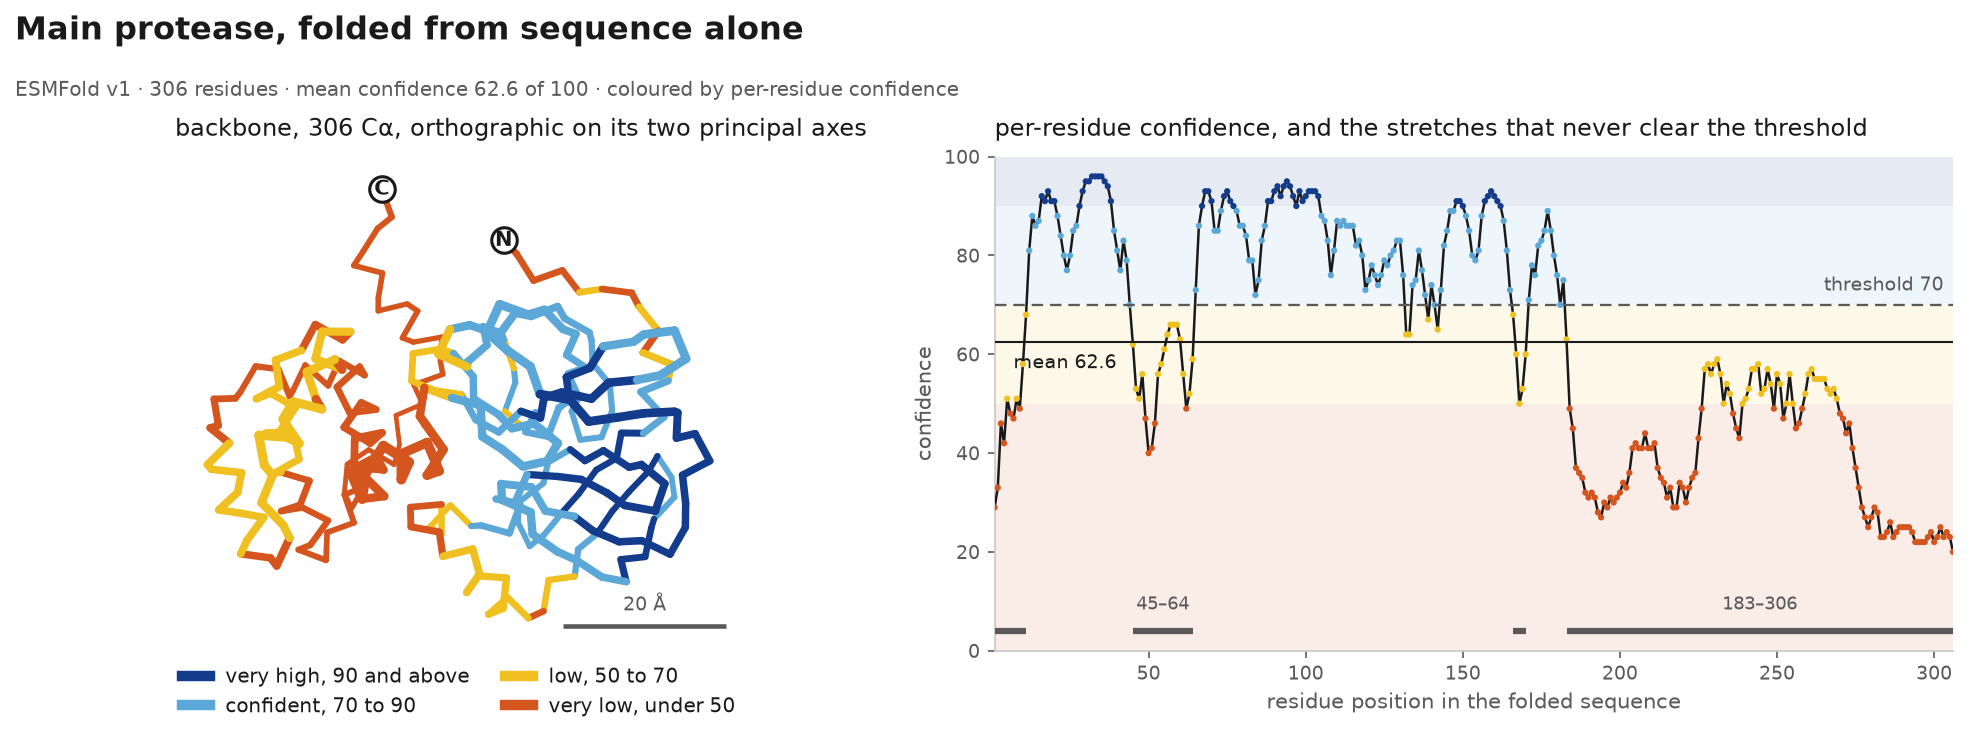
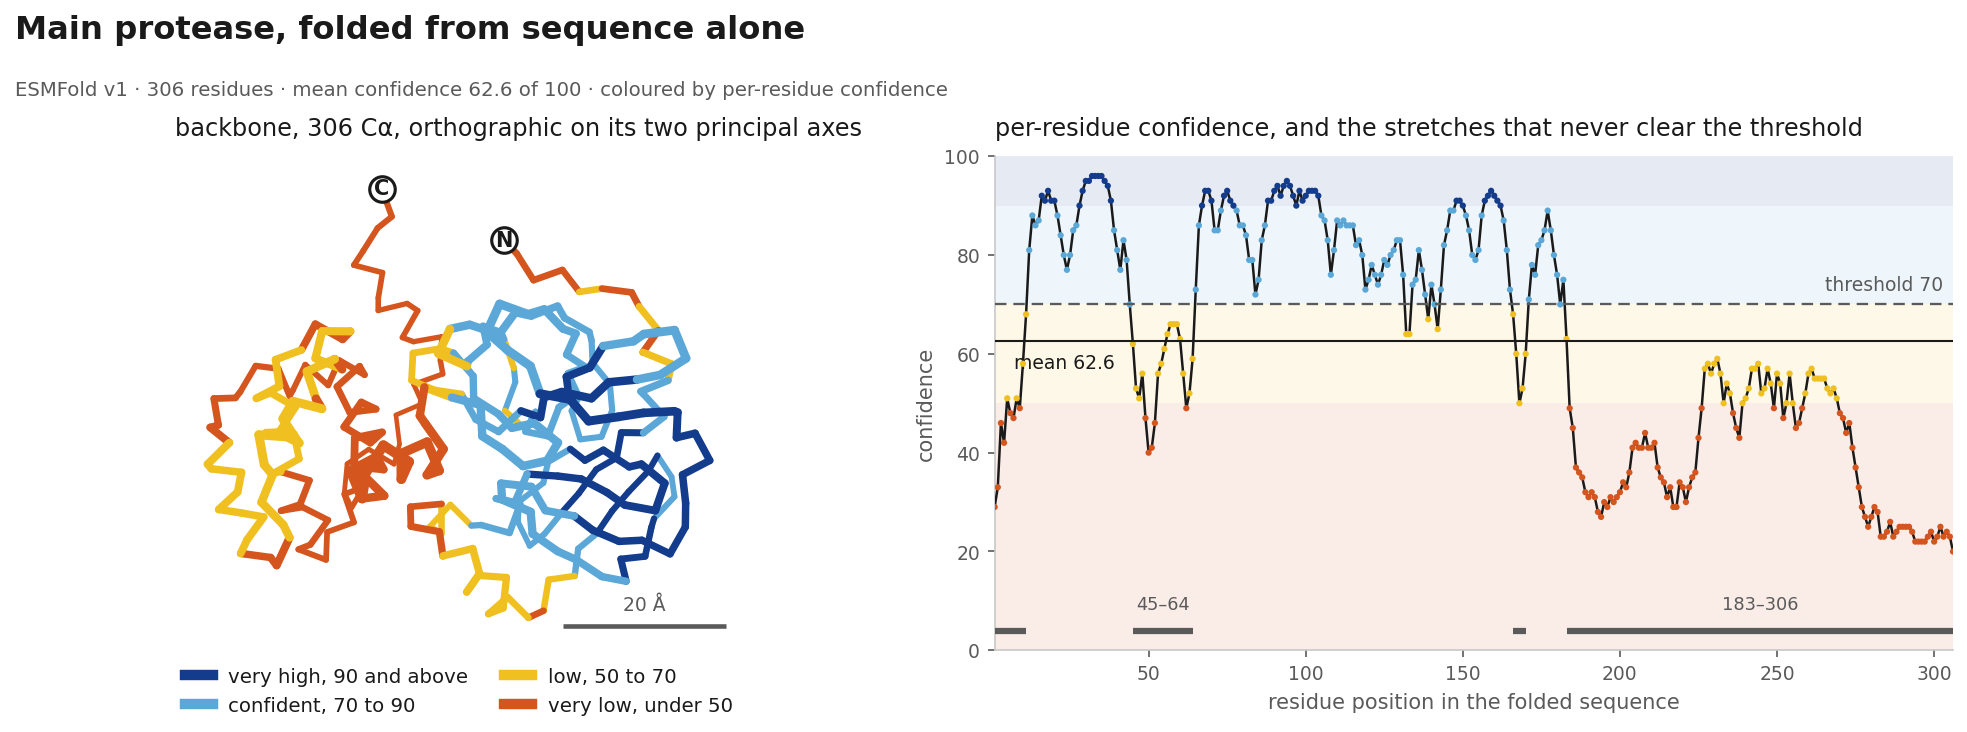
Build the run list from the pages, not from the gitignored records
The Action rebuilt the index from runs/, which is gitignored and so holds
exactly one record on a runner: the one the chain had just written. The
first visitor's run therefore published correctly and dropped Zika and
MERS off the list on its way past.

The committed copies under docs/results/ are the durable list. New records
are adopted from runs/ into that directory, and everything is built from
what is there, so a run on a machine that has only one record still
publishes all of them.

diff --git a/docs/results/index.html b/docs/results/index.html
@@ -27,6 +27,14 @@
     <a class="runrow" href="NC_002728_1.html">
       <span class="who">Nipah<em>NC_002728.1</em></span>
       <span class="stat">8 chains · 7 measured · 70 s</span>
+    </a>
+    <a class="runrow" href="NC_012532_1.html">
+      <span class="who">Zika virus<em>NC_012532.1</em></span>
+      <span class="stat">12 chains · 0 measured · 42 s</span>
+    </a>
+    <a class="runrow" href="NC_019843_3.html">
+      <span class="who">MERS-CoV<em>NC_019843.3</em></span>
+      <span class="stat">19 chains · 2 measured · 122 s</span>
     </a></div></section>
 </div>
 <footer class="sitefoot"><div class="wrap">

diff --git a/output/build_site.py b/output/build_site.py
@@ -303,21 +303,41 @@ def results_index(entries):
 </div>""" + FOOT)
 
 
-def build_results():
-    entries = []
+def adopt_new_records():
+    """Copy any record in `runs/` that the site does not already carry.
+
+    `runs/` is gitignored, so it is empty on a fresh checkout and holds exactly one record on
+    a CI runner: the one the chain just wrote. Treating it as the list of runs therefore
+    rebuilt the index from that single record and orphaned every page published before it.
+    The copies under `docs/results/` are the durable list, because they are the ones that are
+    committed, and they are what the pages already tell a reader to check them against.
+    """
     RESULTS.mkdir(parents=True, exist_ok=True)
-    for path in sorted(RUNS.glob("onset_chain*.json")):
-        if path.name in (LANDING_RECORD, "onset_chain_genomes.json"):
+    # `onset_chain_*.json` with the underscore: it excludes the landing page's own record,
+    # `onset_chain.json`, which is a two-reference payload and has its own hand-written page.
+    for path in sorted(RUNS.glob("onset_chain_*.json")):
+        if path.name == "onset_chain_genomes.json":
             continue
         case = json.loads(path.read_text())
-        if "cases" in case:            # a multi-reference payload, not a single run
+        if "cases" in case or not case.get("stages"):
             continue
+        stem = re.sub(r"[^A-Za-z0-9]+", "_", path.stem.replace("onset_chain_", "")).strip("_")
+        dest = RESULTS / f"{stem}.json"
+        if not dest.exists() or dest.read_bytes() != path.read_bytes():
+            shutil.copyfile(path, dest)
+            print(f"  adopted {path.name} → docs/results/{stem}.json")
+
+
+def build_results():
+    adopt_new_records()
+    entries = []
+    for path in sorted(RESULTS.glob("*.json")):
+        case = json.loads(path.read_text())
         if not case.get("stages"):
             print(f"  skipped {path.name}: no stages recorded")
             continue
-        stem = re.sub(r"[^A-Za-z0-9]+", "_", path.stem.replace("onset_chain_", "")).strip("_")
+        stem = path.stem
         (RESULTS / f"{stem}.html").write_text(result_page(case, stem))
-        shutil.copyfile(path, RESULTS / f"{stem}.json")
         cov = case.get("coverage", {})
         entries.append((stem,
                         case.get("pathogen") or case.get("case") or stem,
